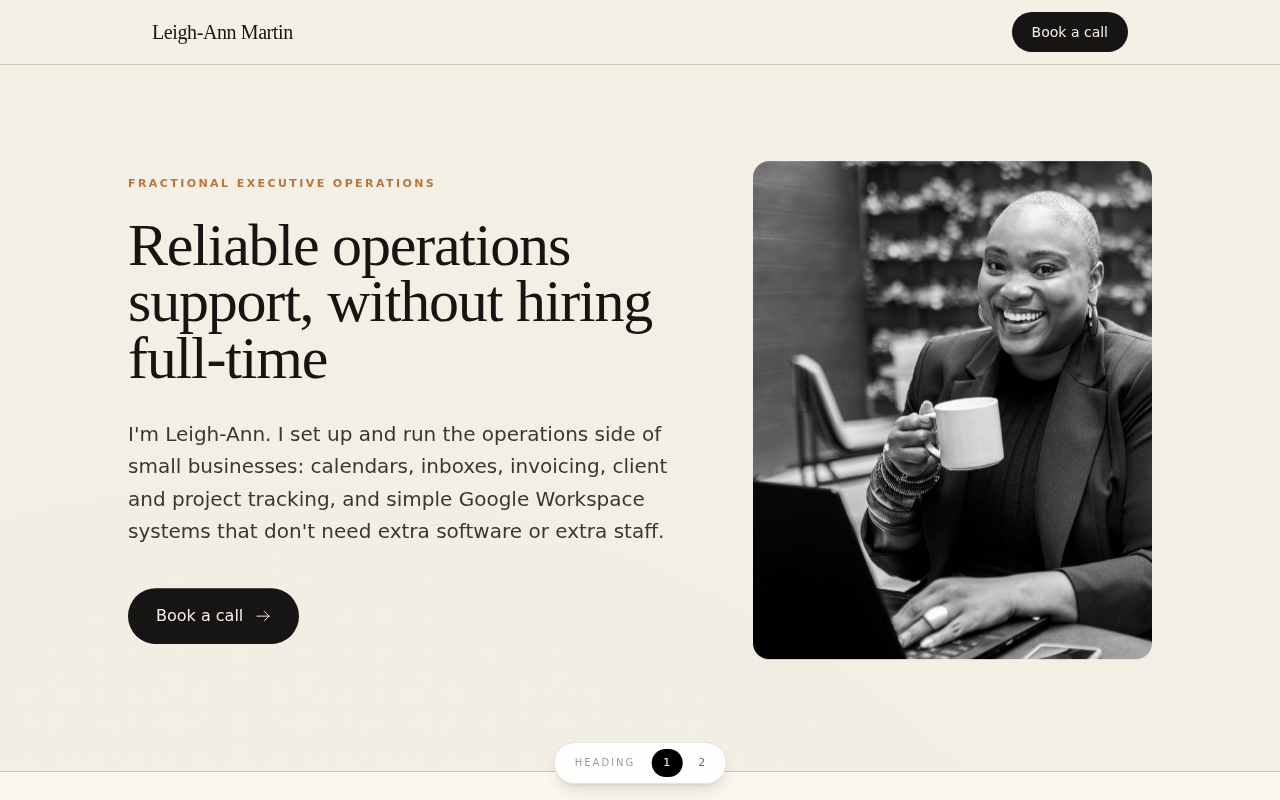
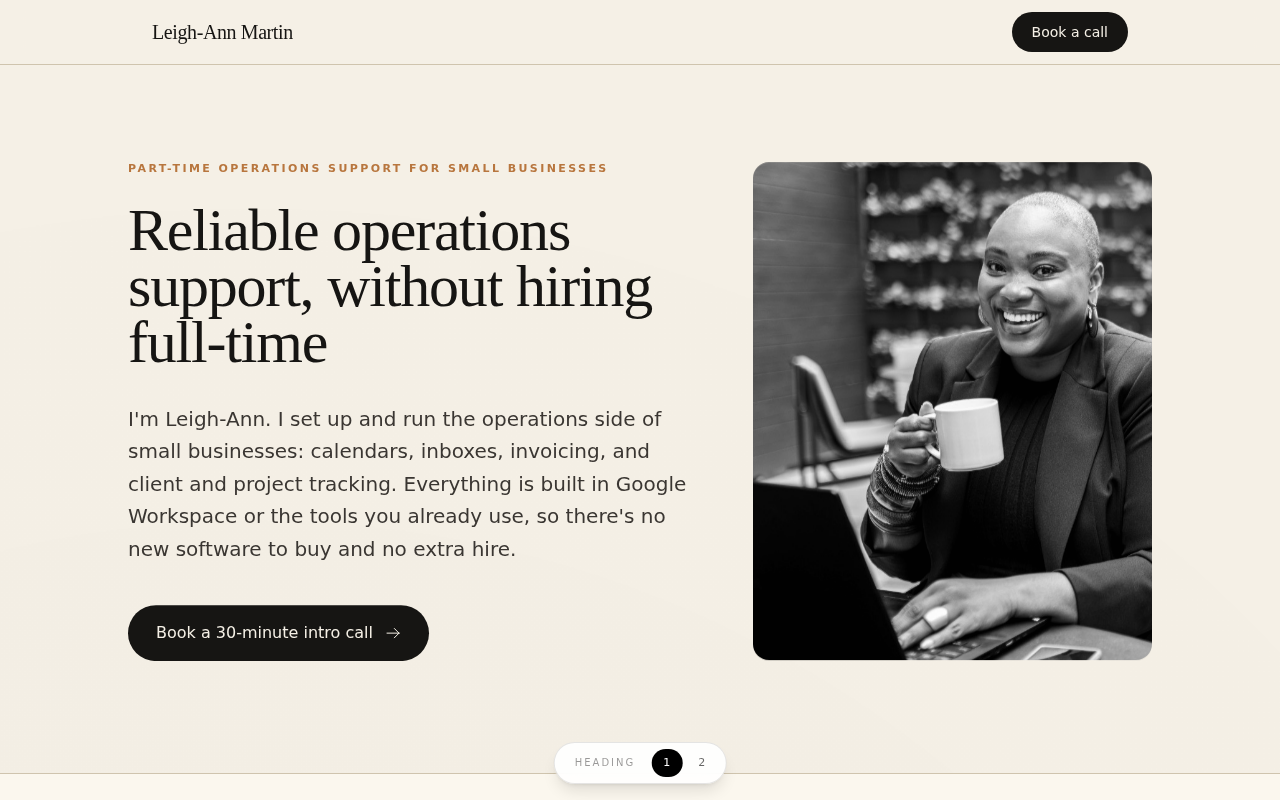
copy: plainer headings, grouped services, and a clear next-steps list
Replaces metaphorical headings with literal ones, groups the eight skills
under four labels, and says the work is built in Google Workspace or the
tools the client already uses. Adds a three-step "what happens next" above
the final CTA and names the call ("30-minute intro call") on the main buttons.
Drops the poetic tagline on /new and the word "fractional" from the eyebrow.

Claude-Session: https://claude.ai/code/session_01UQst6mp6QpTFgDjzQLEcy9

diff --git a/src/data/headings.ts b/src/data/headings.ts
@@ -3,10 +3,10 @@
 export const headings = [
   {
     title: "Reliable operations support, without hiring full-time",
-    sub: "I'm Leigh-Ann. I set up and run the operations side of small businesses: calendars, inboxes, invoicing, client and project tracking, and simple Google Workspace systems that don't need extra software or extra staff.",
+    sub: "I'm Leigh-Ann. I set up and run the operations side of small businesses: calendars, inboxes, invoicing, and client and project tracking. Everything is built in Google Workspace or the tools you already use, so there's no new software to buy and no extra hire.",
   },
   {
     title: "Calm, organized operations for small and growing businesses.",
-    sub: "I'm Leigh-Ann. I help owners get their calendars, inboxes, invoicing and client tracking into simple Google Workspace systems, so the business runs smoothly without a full-time hire or expensive tools.",
+    sub: "I'm Leigh-Ann. I help owners get their calendars, inboxes, invoicing and client tracking organized, using Google Workspace or the tools you already use, so the business runs smoothly without a full-time hire or new software.",
   },
 ];
